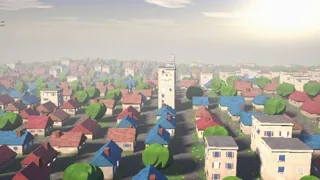
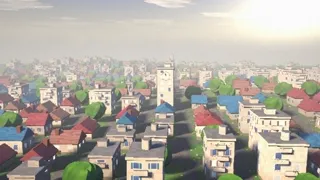
Ciudad: más edificios de techo plano con balcones, barandas, tanques y cuartitos en la azotea, y franjas entre pisos (v255)
Claude-Session: https://claude.ai/code/session_0196GyQFunpP2YdAEnvtnEqf

Changed region(s): [[0.0, 0.3333, 1.0, 1.0], [0.2812, 0.3611, 0.3438, 0.4167], [0.0, 0.1111, 0.0312, 0.1389]]

diff --git a/index.html b/index.html
@@ -867,7 +867,7 @@
         <div class="seg" role="group" aria-label="Color del estrobo"><button data-strobe="bw">Blanco y negro</button><button data-strobe="lime">Lima</button><button data-strobe="palette">Paleta</button></div>
       </div>
       <a class="tt-link" href="https://www.tiktok.com/@sientelamusicaco" target="_blank" rel="noopener"><span class="tt-dot"></span><span>Síguenos en TikTok <small>@sientelamusicaco · canciones que se ven</small></span><span aria-hidden="true">↗</span></a>
-      <div id="verNote" style="text-align:center;font-size:11px;opacity:.5;margin-top:8px">Versión 254</div>
+      <div id="verNote" style="text-align:center;font-size:11px;opacity:.5;margin-top:8px">Versión 255</div>
     </div>
   </div>
   <div class="group">
@@ -12169,8 +12169,8 @@ function citySetup() {
       vec3 r = h3(id), r2 = h3(id + 17.);
       hb = vec2(.95 + .7 * r.y, .85 + .6 * r.z); if (r2.x > .5) hb = hb.yx;
       tw = 0.;   // (sin torres en punta al azar: solo la del reloj)
-      hh = .9 + .75 * r2.y * r2.y; rf = .75 + .45 * r.x;   // casas de uno o dos pisos, con tejado
-      if (r2.y > .78 && r.z > .45) { hh += 1.5 + .9 * r.y; rf = 0.; }   // edificios de tres o cuatro pisos: techo plano con cornisa, sin tejado
+      hh = .9 + 1.5 * r2.y * r2.y; rf = .75 + .45 * r.x;
+      if (r2.y > .72 && r.z > .35) { hh += 1.3 + .9 * r.y; rf = 0.; }   // edificios de tres o cuatro pisos: techo plano con cornisa, sin tejado
       if (tw > .5) { hb = vec2(.75 + .2 * r.y); hh += 2.6; rf = 1.7; }
       if (abs(id.x) < .5 && mod(id.y, 9.) < .5) { hb = vec2(1.15); hh = 6.8; rf = 0.; tw = 2.; }   /* sin techo en punta: remate plano */   // la torre del reloj: cada cierto tramo, sobre el camino del vuelo
       jo = (vec2(r2.z, r.z) - .5) * max(0., (S * .5 - max(hb.x, hb.y) - .45)) * 2.;   // cada casa un poco corrida: un pueblo orgánico
@@ -12189,6 +12189,14 @@ function citySetup() {
         float roof;
         if (rf < .01) {   // techo plano: una cornisa que sobresale un poco
           roof = sdBox(q - vec3(0., hh + .06, 0.), vec3(hb.x + .08, .07, hb.y + .08));
+          // en la azotea: un tanque de agua o el cuartito de la escalera
+          vec2 rc = vec2((r.y - .5) * hb.x, (r.z - .5) * hb.y) * .8;
+          roof = min(roof, r2.z > .5 ? length(vec2(length(q.xz - rc) - .28, 0.)) * 0. + max(length(q.xz - rc) - .28, abs(q.y - hh - .5) - .3) : sdBox(q - vec3(rc.x, hh + .35, rc.y), vec3(.38, .3, .3)));
+          // balcones en la fachada de adelante y de atrás, uno por piso, con su baranda
+          if (tw < .5) { float fy = clamp(floor((q.y - .45) / .92 + .5), 1., floor((hh - .6) / .92)); float yb = q.y - (.45 + fy * .92) + .06;
+            vec3 bq = vec3(q.x - (h2(id + fy) - .5) * hb.x * .7, yb, abs(q.z) - hb.y - .14);
+            float bal = min(sdBox(bq, vec3(.42, .035, .14)), sdBox(bq - vec3(0., .14, .13), vec3(.42, .12, .012)));
+            if (bal < res.x) res = vec2(bal, 2.); }
           if (roof < res.x) res = vec2(roof, 2.); roof = 1e3;
         } else if (tw > .5) {   // techo en punta de cuatro aguas
           roof = max(sdBox(rq - vec3(0., hh + rf * .5, 0.), vec3(rb.x, rf * .5, rb.y)), (max(abs(rq.x) / rb.x, abs(rq.z) / rb.y) * rf + rq.y - hh - rf) / sqrt(1. + rf * rf / (rb.x * rb.x)));
@@ -12265,6 +12273,7 @@ function citySetup() {
           alb = uWall * (.82 + .3 * r.z) * (.92 + .12 * vn(vec2(q.x + q.z, q.y) * 4.));
           if (q.y < .32) alb *= .62;                                                     // zócalo de piedra
           if (n.y > .6) alb = mix(uWall * .5, uFog * .4, .3) * (.85 + .2 * vn(p.xz * 3.));   // la azotea de los edificios: concreto, más hondo
+          if (rf < .01 && abs(n.y) < .3) alb *= .9 + .1 * smoothstep(.0, .04, abs(fract((q.y - .4) / .92) - .02));   // la franja que marca cada piso
         } else if (mat < 3.5) {
           vec3 rq = hb.x > hb.y ? q : q.zyx; float along = rq.x * 3.2, down = (abs(rq.z) + (hh + rf - rq.y)) * 4.2;
           vec2 tl = vec2(along + .5 * floor(down), down);

diff --git a/sw.js b/sw.js
@@ -1,7 +1,7 @@
 // Permite instalar la página como app y abrirla sin conexión.
 // La página se pide primero a la red (así siempre llega la última versión) y, si no hay
 // conexión, se usa la copia guardada. Las imágenes se sirven desde la copia y se renuevan por detrás.
-const CACHE = 'siente-v254';
+const CACHE = 'siente-v255';
 const CORE = ['./', 'index.html', 'manifest.webmanifest', 'icons/icon.svg', 'icons/icon-192.png', 'icons/icon-512.png'];
 
 self.addEventListener('install', e => {
